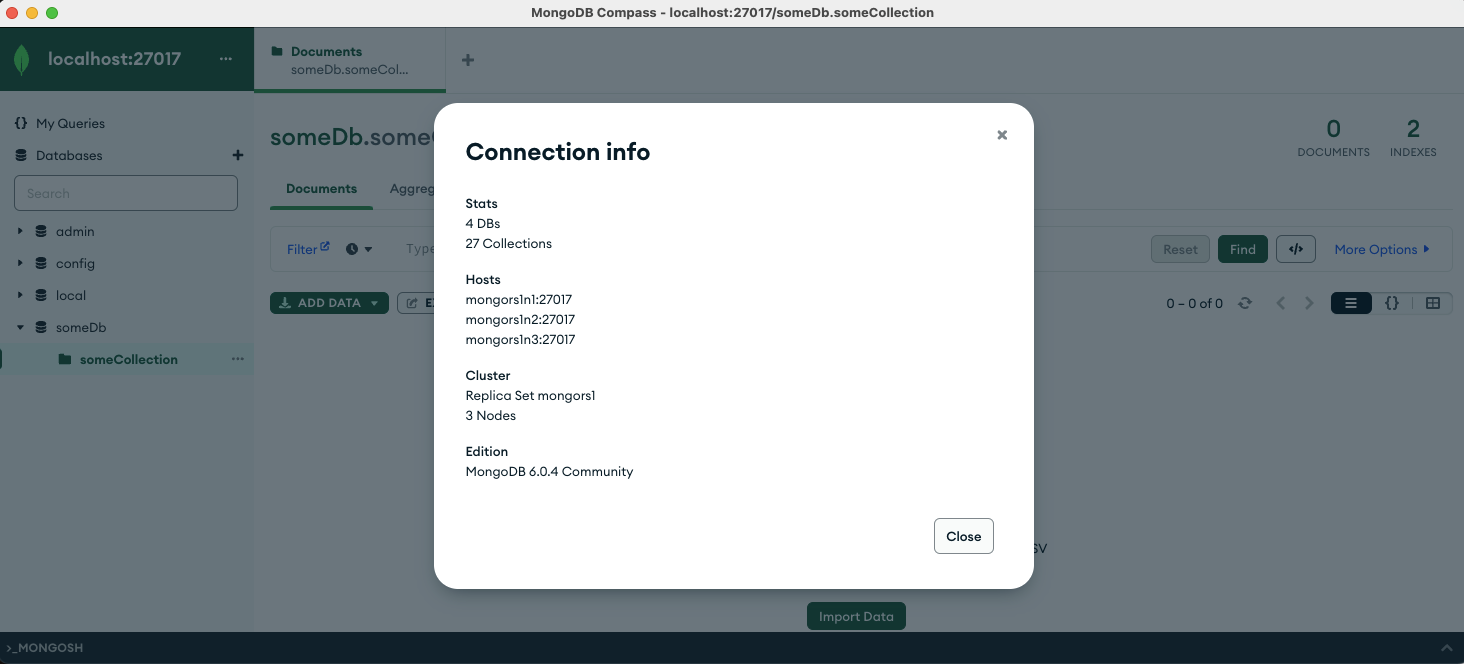
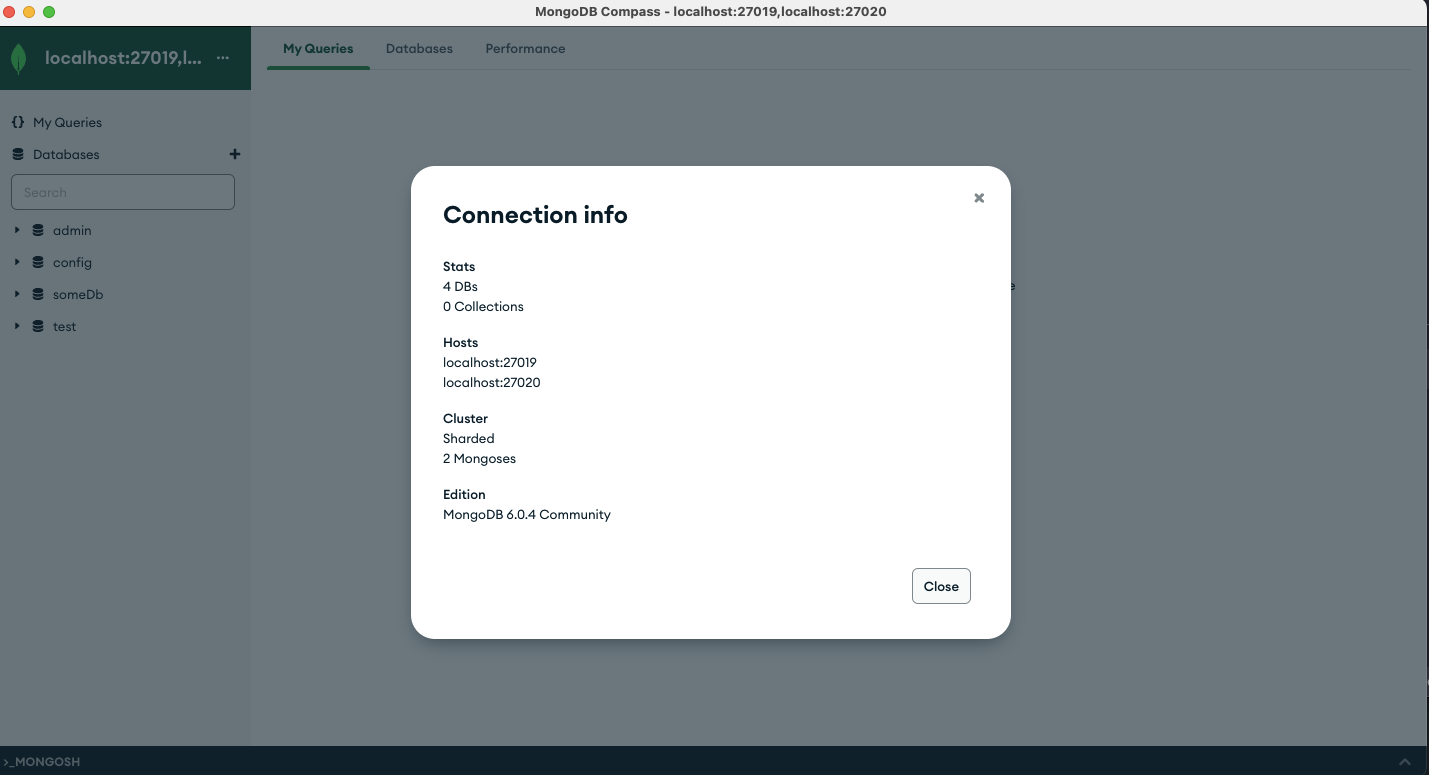
version fix

diff --git a/README.md b/README.md
@@ -6,15 +6,7 @@
 
 
 
-### Небольшое допущение. Необходимо добавить в /etc/hosts строки:
-```bash
-127.0.0.1       mongors1n1
-127.0.0.1       mongors1n2
-127.0.0.1       mongors1n3
-```
-
-
-### Строка подключения `mongodb://localhost:27017?replicaSet=mongors1`
+### Строка подключения `mongodb://localhost:27019,localhost:27020`
 
 ![Init_Connection.png](images%2FInit_Connection.png)
 
@@ -25,7 +17,7 @@
 from pymongo import MongoClient
 
 if __name__ == '__main__':
-    client = MongoClient('mongodb://localhost:27017/?replicaSet=mongors1')
+    client = MongoClient('mongodb://localhost:27019,localhost:27020')
     mydb = client['someDb']
     mycol = mydb['someCollection']
 
